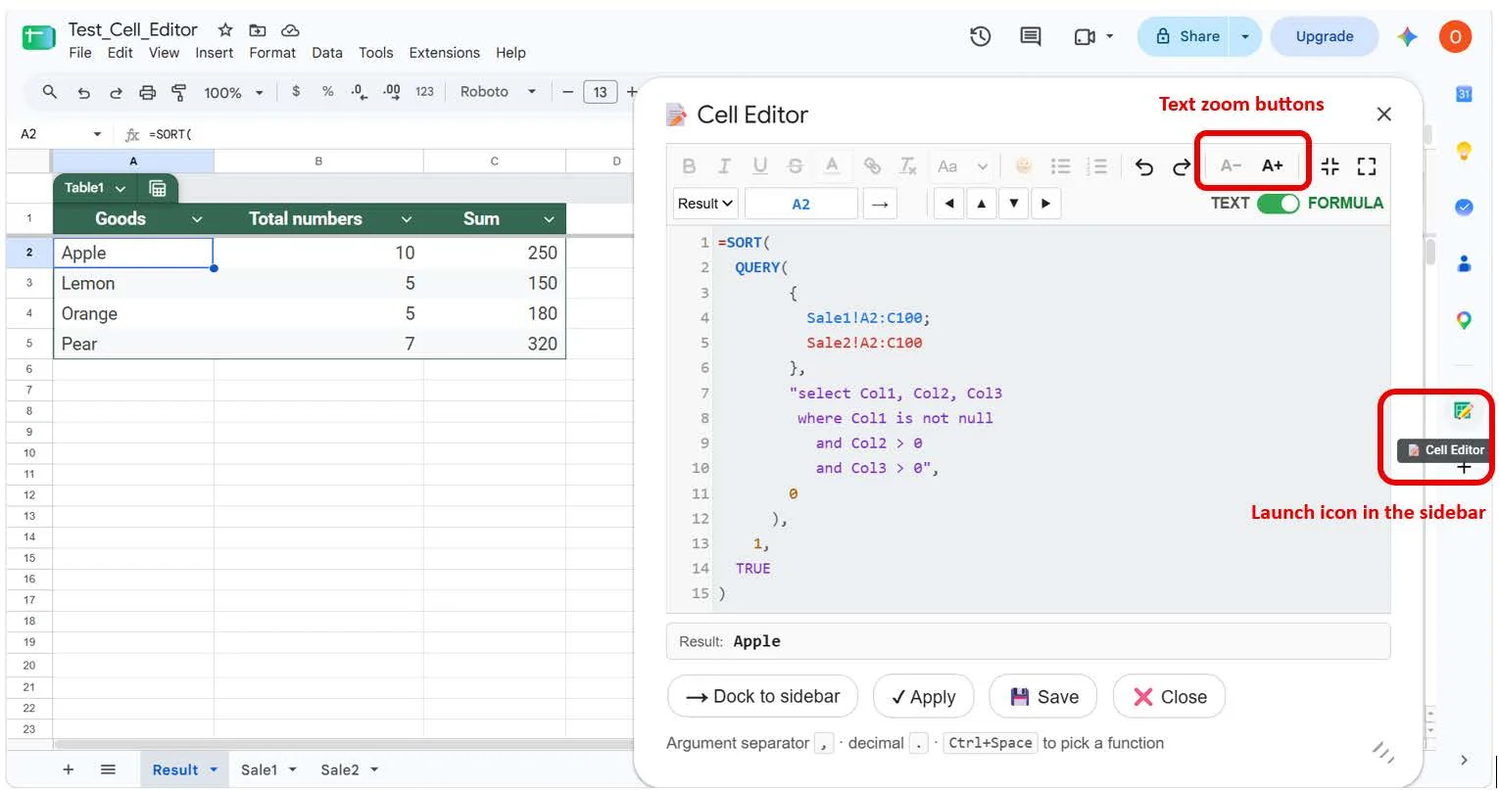
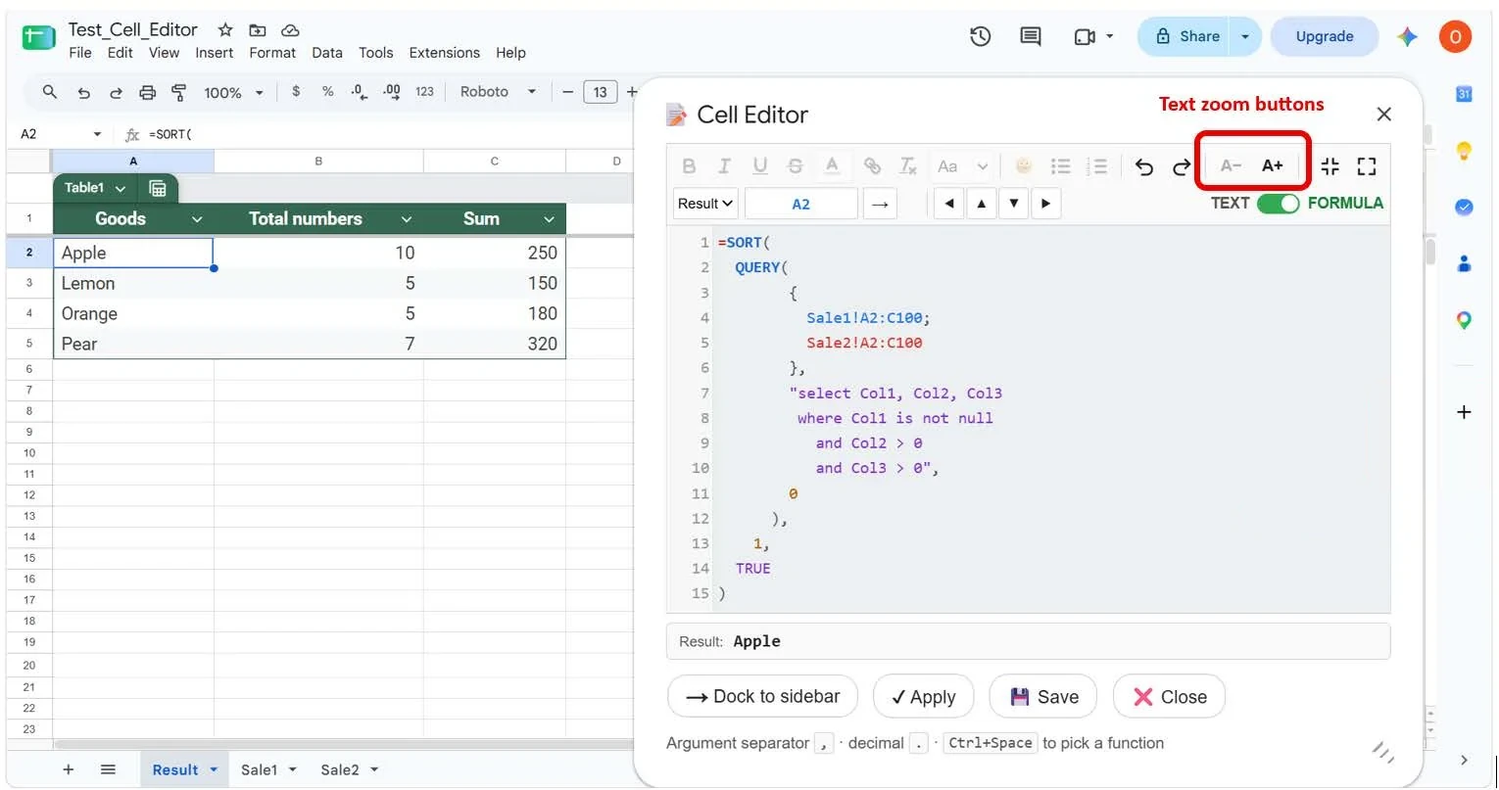
Cell Editor page: accuracy fixes and trademark attribution
- Remove the side-panel launch icon from the formula screenshot and its caption
  (the Google Workspace add-on integration was removed at Google's request).
- FAQ and cell examples: no longer claim Google Sheets can't hold several links in one cell.
- Lists: say the editor adds markers and numbers instead of "real" lists.
- Hints: mention clicking any function inside a nested formula.
- Footer: "Google Sheets(TM) is a trademark of Google LLC."

Changed region(s): [[0.8294, 0.4647, 1.0, 0.6815]]

diff --git a/site/cell-editor/index.html b/site/cell-editor/index.html
@@ -21,7 +21,7 @@
 <link rel="preconnect" href="https://fonts.googleapis.com">
 <link rel="preconnect" href="https://fonts.gstatic.com" crossorigin>
 <link href="https://fonts.googleapis.com/css2?family=Inter+Tight:wght@400;500;600&amp;family=Roboto+Mono:wght@400;500;700&amp;display=swap" rel="stylesheet">
-<link rel="stylesheet" href="/assets/css/site.css?v=646fbfe8e0">
+<link rel="stylesheet" href="/assets/css/site.css?v=7f53d2f9cb">
 </head>
 <body>
 <a class="skip" href="#main">Skip to content</a>
@@ -88,7 +88,7 @@
    "name": "Can I put two different links in one cell?",
    "acceptedAnswer": {
     "@type": "Answer",
-    "text": "Yes, and that is one thing Google Sheets will not do on its own. Select a fragment of text, attach a link to it, then select another fragment and attach a different one. Both survive the save."
+    "text": "Yes. Select a fragment of text, attach a link to it, then select another fragment and attach a different one. Both survive the save."
    }
   },
   {
@@ -132,11 +132,11 @@
       <span></span><span></span><span></span>
     </button>
     <a class="brand" href="/"><img src="/assets/brand/handyaddons-64.png" alt=""><span class="wm"><i>handy</i>addons</span></a>
-    <a class="btn btn-solid btn-sm cta" href="/cell-editor/#install"><span class="long">Install (Coming Soon)</span><span class="short">Install</span></a>
+    <a class="btn btn-solid btn-sm cta" href="https://workspace.google.com/marketplace/app/cell_editor/540002896802"><span class="long">Install</span><span class="short">Install</span></a>
     <!-- The same links as a row, for screens wide enough to hold them. A
          separate element from the drawer on purpose: the drawer is an overlay
          and has to live outside this header, while the row is part of it. -->
-    <nav class="deskmenu" aria-label="Sections"><a href="/">Home</a><a href="/cell-editor/#features">Features</a><a href="/cell-editor/#formulas">Formulas</a><a href="/cell-editor/#functions">Functions</a><a href="/cell-editor/#checks">Checks</a><a href="/cell-editor/#cells">Cells</a><a href="/cell-editor/#screenshots">Screenshots</a><a href="/cell-editor/#faq">FAQ</a><a href="/cell-editor/#languages">Languages</a></nav>
+    <nav class="deskmenu" aria-label="Sections"><a href="/">Home</a><a href="/cell-editor/#features">Features</a><a href="/cell-editor/#formulas">Formulas</a><a href="/cell-editor/#functions">Functions</a><a href="/cell-editor/#cells">Cells</a><a href="/cell-editor/#checks">Checks</a><a href="/cell-editor/#screenshots">Screenshots</a><a href="/cell-editor/#languages">Languages</a><a href="/cell-editor/#faq">FAQ</a></nav>
   </div>
 </header>
 <!-- The drawer and its veil are siblings of the header, never children of it.
@@ -157,11 +157,11 @@
     <a href="/cell-editor/#features">Features</a>
     <a href="/cell-editor/#formulas">Formulas</a>
     <a href="/cell-editor/#functions">Functions</a>
-    <a href="/cell-editor/#checks">Checks</a>
     <a href="/cell-editor/#cells">Cells</a>
+    <a href="/cell-editor/#checks">Checks</a>
     <a href="/cell-editor/#screenshots">Screenshots</a>
-    <a href="/cell-editor/#faq">FAQ</a>
     <a href="/cell-editor/#languages">Languages</a>
+    <a href="/cell-editor/#faq">FAQ</a>
 </nav>
 <main id="main">
 
@@ -172,7 +172,7 @@
       <h1>The formula bar was never big enough.</h1>
       <p class="lede">Cell Editor opens the cell you are editing into a full editor inside Google Sheets. Colored syntax, live function hints, and nine checks that catch a broken formula before it reaches the sheet.</p>
       <div class="hero-actions">
-        <span class="btn-pending">Install (Coming Soon)</span>
+        <a class="btn btn-solid" href="https://workspace.google.com/marketplace/app/cell_editor/540002896802">Install from Google Workspace Marketplace</a>
         <a class="btn btn-ghost" href="#screenshots">See it in the sheet</a>
       </div>
       <p class="free">Free. Google Sheets in a desktop browser.</p>
@@ -210,15 +210,15 @@
   <h2>Everything the formula bar left out</h2>
   <p class="sec-lede">One editor, two modes. Rich text for notes and descriptions, a code editor for formulas — each with its own tools.</p>
   <div class="feat reveal">
-    <div class="cellx"><h3>Sidebar or window</h3><p>A narrow panel that stays beside the sheet, or a wide resizable window for long content. One button switches, and your choice is remembered.</p></div>
-    <div class="cellx"><h3>Colored syntax</h3><p>Functions, references, numbers, strings and brackets each take their own color, and every distinct reference gets its own shade.</p></div>
-    <div class="cellx"><h3>Hints while you type</h3><p>Open a bracket and the function signature appears with the current argument highlighted, described in your spreadsheet's language.</p></div>
-    <div class="cellx"><h3>Pick ranges with the mouse</h3><p>Put the cursor where the address belongs, select cells on the sheet, and the reference lands in the formula — cross-sheet names quoted correctly.</p></div>
-    <div class="cellx"><h3>Move without closing</h3><p>Step to the next cell with the arrow keys or type an address to jump, across sheets. Unsaved changes are flagged before you leave.</p></div>
-    <div class="cellx"><h3>Scale the text</h3><p>Enlarge the editor's font without changing the size of the characters in the cell itself. Built for long sessions and for low vision.</p></div>
-    <div class="cellx"><h3>Rich text mode</h3><p>Bold, italic, underline, strikethrough, color, point sizes, lists, several hyperlinks inside one cell, and an emoji picker with search.</p></div>
-    <div class="cellx"><h3>Your locale decides</h3><p>Argument and decimal separators follow your spreadsheet's own setting, and the pair in force is always shown at the bottom of the window.</p></div>
-    <div class="cellx"><h3>Character counter</h3><p>It appears as content nears the 50 000 character cell limit and turns red past it, blocking the save rather than truncating silently.</p></div>
+    <div class="cellx"><svg class="fico" viewBox="0 0 24 24" aria-hidden="true"><rect x="3" y="5" width="18" height="14" rx="2"/><path d="M15 5v14"/></svg><h3>Sidebar or window</h3><p>A narrow panel that stays beside the sheet, or a wide resizable window for long content. One button switches, and your choice is remembered.</p></div>
+    <div class="cellx"><svg class="fico" viewBox="0 0 24 24" aria-hidden="true"><path d="M9 6 4 12l5 6"/><path d="m15 6 5 6-5 6"/></svg><h3>Colored syntax</h3><p>Functions, references, numbers, strings and brackets each take their own color, and every distinct reference gets its own shade.</p></div>
+    <div class="cellx"><svg class="fico" viewBox="0 0 24 24" aria-hidden="true"><path d="M20 4H4a1 1 0 0 0-1 1v10a1 1 0 0 0 1 1h4v4l4-4h8a1 1 0 0 0 1-1V5a1 1 0 0 0-1-1Z"/></svg><h3>Hints while you type</h3><p>Open a bracket, or click any function inside a nested formula, and the hint for that exact function appears with the current argument highlighted — not at the start of the formula. Described in your spreadsheet's language.</p></div>
+    <div class="cellx"><svg class="fico" viewBox="0 0 24 24" aria-hidden="true"><rect x="3" y="3" width="18" height="18" rx="2" stroke-dasharray="4 3"/><path d="m10 9.5 8.5 3.2-3.5 1.4-1.4 3.5Z"/></svg><h3>Pick ranges with the mouse</h3><p>Put the cursor where the address belongs, select cells on the sheet, and the reference lands in the formula — cross-sheet names quoted correctly.</p></div>
+    <div class="cellx"><svg class="fico" viewBox="0 0 24 24" aria-hidden="true"><path d="M12 4v16M4 12h16"/><path d="m9.5 6.5 2.5-2.5 2.5 2.5M9.5 17.5l2.5 2.5 2.5-2.5M6.5 9.5 4 12l2.5 2.5M17.5 9.5 20 12l-2.5 2.5"/></svg><h3>Move without closing</h3><p>Step to the next cell with the arrow keys or type an address to jump, across sheets. Unsaved changes are flagged before you leave.</p></div>
+    <div class="cellx"><svg class="fico" viewBox="0 0 24 24" aria-hidden="true"><path d="M3 18 8 6l5 12"/><path d="M4.6 14h6.8"/><path d="M16 10h6M19 7v6"/></svg><h3>Scale the text</h3><p>Enlarge the editor's font without changing the size of the characters in the cell itself. Built for long sessions and for low vision.</p></div>
+    <div class="cellx"><svg class="fico" viewBox="0 0 24 24" aria-hidden="true"><path d="M2.5 15 6.2 5l3.7 10"/><path d="M3.8 12h4.8"/><circle cx="15.7" cy="12.2" r="3.2"/><path d="M18.9 9v6"/><path d="M2.5 19.5h17" stroke="#e8710a" stroke-width="2.4"/></svg><h3>Rich text mode</h3><p>Bold, italic, underline, strikethrough, color, point sizes, lists, several hyperlinks inside one cell, and an emoji picker with search.</p></div>
+    <div class="cellx"><svg class="fico" viewBox="0 0 24 24" aria-hidden="true"><circle cx="12" cy="12" r="9"/><path d="M3 12h18"/><path d="M12 3a14 14 0 0 1 0 18 14 14 0 0 1 0-18Z"/></svg><h3>Your locale decides</h3><p>Argument and decimal separators follow your spreadsheet's own setting, and the pair in force is always shown at the bottom of the window.</p></div>
+    <div class="cellx"><svg class="fico" viewBox="0 0 24 24" aria-hidden="true"><path d="M3 16.5a9 9 0 1 1 18 0"/><path d="m12 16.5 4.6-5.6"/><circle cx="12" cy="16.5" r="1.3"/></svg><h3>Character counter</h3><p>It appears as content nears the 50 000 character cell limit and turns red past it, blocking the save rather than truncating silently.</p></div>
   </div>
 </section>
 
@@ -229,7 +229,7 @@
       <div class="shot-frame" style="aspect-ratio:1530/807">
         <img src="/assets/screenshots/formula.webp" width="1530" height="807" loading="lazy" decoding="async" alt="Cell Editor open in a window over a Google Sheet, showing a nested SORT and QUERY formula with colored syntax and line numbers">
       </div>
-      <figcaption>Formula mode in a resizable window, with the text zoom controls and the launcher icon marked</figcaption>
+      <figcaption>Formula mode in a resizable window, with the text zoom controls marked</figcaption>
     </figure>
   <div class="points reveal">
     <div>
@@ -350,7 +350,7 @@
     <div class="cellbox">
       <div class="cellbox-h"><b>D12</b>Handover procedure</div>
       <div class="cellbox-b"><ol><li>Export the monthly report</li><li>Reconcile the totals against the ledger</li><li>Send to the client and copy the account manager</li></ol></div>
-      <p class="cellbox-n">A real numbered list inside one cell — the numbers come from the list, not typed in by hand, so inserting a step renumbers the rest.</p>
+      <p class="cellbox-n">A numbered list inside one cell — Cell Editor puts the numbers in for you, so you never type them by hand.</p>
     </div>
     <div class="cellbox">
       <div class="cellbox-h"><b>A3</b>Definition with a source</div>
@@ -360,7 +360,7 @@
     <div class="cellbox">
       <div class="cellbox-h"><b>C5</b>Product line with two links</div>
       <div class="cellbox-b">Steelcase Leap v2 &mdash; <a href="#cells">spec sheet</a> &middot; <a href="#cells">warranty terms</a></div>
-      <p class="cellbox-n">Google Sheets attaches one link per cell on its own. Cell Editor attaches one per fragment.</p>
+      <p class="cellbox-n">Two links on two different words of the same cell, each added in the editor like in any document.</p>
     </div>
   </div>
 </section>
@@ -402,7 +402,7 @@
     </figure>
     <div>
       <h3>Formatting that survives the save</h3>
-      <p>Bold, italic, underline and strikethrough, text color on individual fragments, and a point size that sets the real size of the characters in the cell. Lists come out as lists.</p>
+      <p>Bold, italic, underline and strikethrough, text color on individual fragments, and a point size that sets the real size of the characters in the cell. Bulleted and numbered lists get their markers and numbers from the editor.</p>
       <ul class="mini">
         <li>Several hyperlinks attached to different fragments of one cell</li>
         <li>Clear formatting resets a fragment back to plain text</li>
@@ -497,7 +497,7 @@
     </details>
     <details>
       <summary>Can I put two different links in one cell?</summary>
-      <div class="ans"><p>Yes, and that is one thing Google Sheets will not do on its own. Select a fragment of text, attach a link to it, then select another fragment and attach a different one. Both survive the save.</p></div>
+      <div class="ans"><p>Yes. Select a fragment of text, attach a link to it, then select another fragment and attach a different one. Both survive the save.</p></div>
     </details>
     <details>
       <summary>Will it change how my formula is stored?</summary>
@@ -536,7 +536,7 @@
   <div class="wrap">
     <h2>Add it to your spreadsheet</h2>
     <p>Installs from the Google Workspace Marketplace and appears under the Extensions menu. Free, with no account to create.</p>
-    <span class="btn-pending">Install (Coming Soon)</span>
+    <a class="btn btn-solid" href="https://workspace.google.com/marketplace/app/cell_editor/540002896802">Install Cell Editor</a>
   </div>
 </div>
 
@@ -561,8 +561,9 @@
     <a href="/support/">Support</a>
     <span class="sp">handyaddons.com</span>
   </div>
+  <p style="font-size:.8rem;opacity:.7;margin:.75rem 0 0">Google Sheets&trade; is a trademark of Google LLC.</p>
 </footer>
 <button type="button" class="totop" id="totop" aria-label="Back to top">&#8593;</button>
-<script src="/assets/js/site.js?v=68306b230d" defer></script>
+<script src="/assets/js/site.js?v=f38a54eefc" defer></script>
 </body>
 </html>

diff --git a/site/cell-editor/privacy/index.html b/site/cell-editor/privacy/index.html
@@ -21,7 +21,7 @@
 <link rel="preconnect" href="https://fonts.googleapis.com">
 <link rel="preconnect" href="https://fonts.gstatic.com" crossorigin>
 <link href="https://fonts.googleapis.com/css2?family=Inter+Tight:wght@400;500;600&amp;family=Roboto+Mono:wght@400;500;700&amp;display=swap" rel="stylesheet">
-<link rel="stylesheet" href="/assets/css/site.css?v=646fbfe8e0">
+<link rel="stylesheet" href="/assets/css/site.css?v=7f53d2f9cb">
 </head>
 <body>
 <a class="skip" href="#main">Skip to content</a>
@@ -31,7 +31,7 @@
       <span></span><span></span><span></span>
     </button>
     <a class="brand" href="/"><img src="/assets/brand/handyaddons-64.png" alt=""><span class="wm"><i>handy</i>addons</span></a>
-    <a class="btn btn-solid btn-sm cta" href="/cell-editor/#install"><span class="long">Install (Coming Soon)</span><span class="short">Install</span></a>
+    <a class="btn btn-solid btn-sm cta" href="https://workspace.google.com/marketplace/app/cell_editor/540002896802"><span class="long">Install</span><span class="short">Install</span></a>
     <!-- The same links as a row, for screens wide enough to hold them. A
          separate element from the drawer on purpose: the drawer is an overlay
          and has to live outside this header, while the row is part of it. -->
@@ -89,27 +89,57 @@
 <h2>6. Analytics, advertising and tracking</h2>
 <p>The add-on contains no analytics, no advertising, no tracking pixels and no cookies. We do not know how often you use it or what you do with it. We receive no usage reports of any kind.</p>
 
-<h2>7. Limited use disclosure</h2>
+<h2>7. Sharing and disclosure of Google user data</h2>
+<p>We do not transfer or disclose your information to third parties for purposes other than the ones described in this policy. In practice there are no such purposes, so there is no transfer at all.</p>
+<p>Google user data reached by Cell Editor is not sold, rented, traded, published, or shared with anyone. There are no third parties involved in running this add-on: no service providers, no sub-processors, no hosting partners, no analytics providers, no advertising networks, no data brokers, and no affiliates. handyaddons operates no server that this data could be sent to.</p>
+<p>This is enforced technically rather than promised. The add-on does not request the <code>script.external_request</code> permission, which is the permission Google requires before any Apps Script code may contact an address on the internet. Without it, the add-on is incapable of transmitting anything anywhere, whatever its code might say.</p>
+<p>The same applies to legal requests. If we were compelled by a court or an authority to hand over your spreadsheet content, we would have nothing to hand over: we hold no copy of it, and no means of obtaining one.</p>
+
+<h2>8. How your data is protected</h2>
+<p>Security procedures are in place to protect the confidentiality of your data. The most important one is structural: your data never leaves Google.</p>
+<ul>
+<li><strong>It stays inside Google's infrastructure.</strong> The add-on runs in Google's Apps Script environment, inside your own Google account. The cell you edit travels between the spreadsheet and the editor panel and back again, and never crosses out of Google's systems.</li>
+<li><strong>It is encrypted in transit.</strong> Every exchange between the editor panel and the add-on takes place over HTTPS within Google's network. This website is served over HTTPS as well.</li>
+<li><strong>It is encrypted at rest.</strong> The few preferences described in section 5 are held by Google's own properties service, which Google encrypts at rest, in the pair &ldquo;this user, this add-on&rdquo;. No other add-on and no other user can read them.</li>
+<li><strong>Access is limited to the file you have open.</strong> The add-on requests <code>spreadsheets.currentonly</code>, the narrowest spreadsheet permission Google offers. It grants access to the one spreadsheet the add-on was opened in, and only while it is open. Every other file in your account is out of reach.</li>
+<li><strong>It cannot be sent anywhere.</strong> As explained in section 7, the add-on has no permission to make network requests.</li>
+<li><strong>Nobody at handyaddons can see it.</strong> We run no server, no database, and no backup of your content. There is no administrative console, no support tool, and no export through which anyone &mdash; including the developer &mdash; could reach what is in your spreadsheet. The access does not exist to be abused or stolen.</li>
+</ul>
+
+<h2>9. Data retention and deletion</h2>
+<p>We retain no Google user data, because we never receive any. The contents of a cell are read when you open the editor, held in memory while you work, and written back when you save. Nothing remains once the panel is closed.</p>
+<p>The four preference values described in section 5 are kept inside your own Google account for as long as the add-on stays installed. They are deleted automatically when you remove the add-on, which you can do at any time from the Extensions menu in Google Sheets. There are no archives, backups, or copies elsewhere, so nothing survives that deletion.</p>
+
+<h2>10. AI and machine learning</h2>
+<p>Google Workspace APIs are not used to develop, improve, or train non-personalized artificial intelligence or machine learning models. Google user data is never used, transferred, or sold for the development, improvement, or training of any AI or ML model, generalized or otherwise.</p>
+<p>Cell Editor contains no AI or machine learning model, is not built on one, and integrates with no AI service of any kind &mdash; not Google's own, not a third party's, not through an aggregator, gateway, or model hub, and not a self-hosted or offline model. It sends no prompt anywhere and receives no generated content. As with everything else in this policy, this is guaranteed by the absence of the <code>script.external_request</code> permission.</p>
+<p>One point deserves a plain explanation, because it is easy to misread from the source code. Cell Editor offers autocomplete and descriptions for the built-in functions of Google Sheets &mdash; around seven hundred of them, from <code>SUM</code> to <code>VLOOKUP</code>. Google has added <code>AI()</code> and <code>GEMINI()</code> to that list of built-in functions, so the add-on carries their names, a one-line description, and a link to Google's documentation, exactly as it does for every other function. That reference text is the only place those words appear. If you write such a formula, it is Google Sheets that evaluates it, under Google's own terms; the add-on merely writes the text of your formula into the cell, as it would with any other formula, and never calls Gemini or any other model itself.</p>
+
+<h2>11. Limited use disclosure</h2>
 <p>handyaddons' use and transfer of information received from Google APIs to any other app will adhere to the <a href="https://developers.google.com/terms/api-services-user-data-policy">Google API Services User Data Policy</a>, including the Limited Use requirements.</p>
 
-<h2>8. This website</h2>
+<h2>12. Third-party resources loaded by the editor</h2>
+<p>The editor panel is built on two open-source libraries, Quill and CodeMirror, which your browser downloads from two public code distribution networks: jsDelivr and cdnjs. These are static script and stylesheet files. No part of your spreadsheet, and no information about you, is sent to either of them.</p>
+<p>What they do see, as any website does when your browser requests a file from it, is your browser's IP address and the name of the file requested. We have no account with either service and receive nothing back from them. Their own policies apply to that request: <a href="https://www.jsdelivr.com/terms/privacy-policy-jsdelivr-net">jsDelivr</a> and <a href="https://www.cloudflare.com/privacypolicy/">Cloudflare</a>, which operates cdnjs.</p>
+
+<h2>13. This website</h2>
 <p>handyaddons.com is a set of static pages served by GitHub Pages. It sets no cookies and runs no analytics. GitHub keeps standard server logs, which include visitors' IP addresses, as described in the <a href="https://docs.github.com/en/site-policy/privacy-policies/github-privacy-statement">GitHub Privacy Statement</a>. The site loads its typefaces from Google Fonts, which means your browser's IP address is visible to Google when a page loads.</p>
 
-<h2>9. Your rights</h2>
+<h2>14. Your rights</h2>
 <p>The GDPR gives you the right to ask what personal data is held about you, to have it corrected or erased, to object to its processing, and to receive a copy of it. The same rights, under different names, exist in the UK, California and a growing number of other places.</p>
 <p>In our case the honest answer to all of them is the same: we hold nothing to show you, correct, or erase. We have no account for you, no record of your use of the add-on, and no copy of anything from your documents. The preferences described in section 5 live inside your own Google account and disappear when you remove the add-on.</p>
 <p>You are welcome to ask anyway, at <a href="mailto:pobi.olex@gmail.com">pobi.olex@gmail.com</a>, and we will answer within thirty days. If the answer does not satisfy you, you may complain to your national data protection authority.</p>
 
-<h2>10. Links to other places</h2>
+<h2>15. Links to other places</h2>
 <p>The add-on links to Google's own reference pages, and this site links to Google's policies and to the Marketplace. Those destinations are not ours, and their own privacy practices apply once you arrive there.</p>
 
-<h2>11. Children</h2>
+<h2>16. Children</h2>
 <p>Cell Editor is a productivity tool and is not directed at children. We do not knowingly collect information from anyone, including children.</p>
 
-<h2>12. Changes to this policy</h2>
+<h2>17. Changes to this policy</h2>
 <p>If the add-on ever requests a new permission or begins handling data differently, this page will be updated before that change reaches you, and the date at the top will change with it.</p>
 
-<h2>13. Contact</h2>
+<h2>18. Contact</h2>
 <p>Questions about this policy, or about anything the add-on does with your data: <a href="mailto:pobi.olex@gmail.com">pobi.olex@gmail.com</a>. We answer in English and Ukrainian.</p>
 
 <p style="margin-top:40px"><a href="/cell-editor/">Back to Cell Editor</a> &middot; <a href="/terms/">Terms of use</a> &middot; <a href="/support/">Support</a></p>
@@ -122,8 +152,9 @@
     <a href="/support/">Support</a>
     <span class="sp">handyaddons.com</span>
   </div>
+  <p style="font-size:.8rem;opacity:.7;margin:.75rem 0 0">Google Sheets&trade; is a trademark of Google LLC.</p>
 </footer>
 <button type="button" class="totop" id="totop" aria-label="Back to top">&#8593;</button>
-<script src="/assets/js/site.js?v=68306b230d" defer></script>
+<script src="/assets/js/site.js?v=f38a54eefc" defer></script>
 </body>
 </html>

diff --git a/site/terms/index.html b/site/terms/index.html
@@ -21,7 +21,7 @@
 <link rel="preconnect" href="https://fonts.googleapis.com">
 <link rel="preconnect" href="https://fonts.gstatic.com" crossorigin>
 <link href="https://fonts.googleapis.com/css2?family=Inter+Tight:wght@400;500;600&amp;family=Roboto+Mono:wght@400;500;700&amp;display=swap" rel="stylesheet">
-<link rel="stylesheet" href="/assets/css/site.css?v=646fbfe8e0">
+<link rel="stylesheet" href="/assets/css/site.css?v=7f53d2f9cb">
 </head>
 <body>
 <a class="skip" href="#main">Skip to content</a>
@@ -31,7 +31,7 @@
       <span></span><span></span><span></span>
     </button>
     <a class="brand" href="/"><img src="/assets/brand/handyaddons-64.png" alt=""><span class="wm"><i>handy</i>addons</span></a>
-    <a class="btn btn-solid btn-sm cta" href="/cell-editor/#install"><span class="long">Install (Coming Soon)</span><span class="short">Install</span></a>
+    <a class="btn btn-solid btn-sm cta" href="https://workspace.google.com/marketplace/app/cell_editor/540002896802"><span class="long">Install</span><span class="short">Install</span></a>
     <!-- The same links as a row, for screens wide enough to hold them. A
          separate element from the drawer on purpose: the drawer is an overlay
          and has to live outside this header, while the row is part of it. -->
@@ -118,8 +118,9 @@
     <a href="/support/">Support</a>
     <span class="sp">handyaddons.com</span>
   </div>
+  <p style="font-size:.8rem;opacity:.7;margin:.75rem 0 0">Google Sheets&trade; is a trademark of Google LLC.</p>
 </footer>
 <button type="button" class="totop" id="totop" aria-label="Back to top">&#8593;</button>
-<script src="/assets/js/site.js?v=68306b230d" defer></script>
+<script src="/assets/js/site.js?v=f38a54eefc" defer></script>
 </body>
 </html>

diff --git a/site/404.html b/site/404.html
@@ -21,7 +21,7 @@
 <link rel="preconnect" href="https://fonts.googleapis.com">
 <link rel="preconnect" href="https://fonts.gstatic.com" crossorigin>
 <link href="https://fonts.googleapis.com/css2?family=Inter+Tight:wght@400;500;600&amp;family=Roboto+Mono:wght@400;500;700&amp;display=swap" rel="stylesheet">
-<link rel="stylesheet" href="/assets/css/site.css?v=646fbfe8e0">
+<link rel="stylesheet" href="/assets/css/site.css?v=7f53d2f9cb">
 </head>
 <body>
 <a class="skip" href="#main">Skip to content</a>
@@ -31,7 +31,7 @@
       <span></span><span></span><span></span>
     </button>
     <a class="brand" href="/"><img src="/assets/brand/handyaddons-64.png" alt=""><span class="wm"><i>handy</i>addons</span></a>
-    <a class="btn btn-solid btn-sm cta" href="/cell-editor/#install"><span class="long">Install (Coming Soon)</span><span class="short">Install</span></a>
+    <a class="btn btn-solid btn-sm cta" href="https://workspace.google.com/marketplace/app/cell_editor/540002896802"><span class="long">Install</span><span class="short">Install</span></a>
     <!-- The same links as a row, for screens wide enough to hold them. A
          separate element from the drawer on purpose: the drawer is an overlay
          and has to live outside this header, while the row is part of it. -->
@@ -69,8 +69,9 @@
     <a href="/support/">Support</a>
     <span class="sp">handyaddons.com</span>
   </div>
+  <p style="font-size:.8rem;opacity:.7;margin:.75rem 0 0">Google Sheets&trade; is a trademark of Google LLC.</p>
 </footer>
 <button type="button" class="totop" id="totop" aria-label="Back to top">&#8593;</button>
-<script src="/assets/js/site.js?v=68306b230d" defer></script>
+<script src="/assets/js/site.js?v=f38a54eefc" defer></script>
 </body>
 </html>

diff --git a/site/support/index.html b/site/support/index.html
@@ -21,7 +21,7 @@
 <link rel="preconnect" href="https://fonts.googleapis.com">
 <link rel="preconnect" href="https://fonts.gstatic.com" crossorigin>
 <link href="https://fonts.googleapis.com/css2?family=Inter+Tight:wght@400;500;600&amp;family=Roboto+Mono:wght@400;500;700&amp;display=swap" rel="stylesheet">
-<link rel="stylesheet" href="/assets/css/site.css?v=646fbfe8e0">
+<link rel="stylesheet" href="/assets/css/site.css?v=7f53d2f9cb">
 </head>
 <body>
 <a class="skip" href="#main">Skip to content</a>
@@ -31,7 +31,7 @@
       <span></span><span></span><span></span>
     </button>
     <a class="brand" href="/"><img src="/assets/brand/handyaddons-64.png" alt=""><span class="wm"><i>handy</i>addons</span></a>
-    <a class="btn btn-solid btn-sm cta" href="/cell-editor/#install"><span class="long">Install (Coming Soon)</span><span class="short">Install</span></a>
+    <a class="btn btn-solid btn-sm cta" href="https://workspace.google.com/marketplace/app/cell_editor/540002896802"><span class="long">Install</span><span class="short">Install</span></a>
     <!-- The same links as a row, for screens wide enough to hold them. A
          separate element from the drawer on purpose: the drawer is an overlay
          and has to live outside this header, while the row is part of it. -->
@@ -99,8 +99,9 @@
     <a href="/support/">Support</a>
     <span class="sp">handyaddons.com</span>
   </div>
+  <p style="font-size:.8rem;opacity:.7;margin:.75rem 0 0">Google Sheets&trade; is a trademark of Google LLC.</p>
 </footer>
 <button type="button" class="totop" id="totop" aria-label="Back to top">&#8593;</button>
-<script src="/assets/js/site.js?v=68306b230d" defer></script>
+<script src="/assets/js/site.js?v=f38a54eefc" defer></script>
 </body>
 </html>

diff --git a/build.py b/build.py
@@ -141,8 +141,8 @@ def cell_examples():
         ("D12", "Handover procedure",
          '<ol><li>Export the monthly report</li><li>Reconcile the totals against the ledger</li>'
          '<li>Send to the client and copy the account manager</li></ol>',
-         "A real numbered list inside one cell — the numbers come from the list, not typed in by hand, "
-         "so inserting a step renumbers the rest."),
+         "A numbered list inside one cell — Cell Editor puts the numbers in for you, "
+         "so you never type them by hand."),
         ("A3", "Definition with a source",
          '<b>Net 30</b> &mdash; payment falls due thirty days after the invoice date. '
          'See the <a href="#cells">payment policy</a>.',
@@ -150,7 +150,7 @@ def cell_examples():
         ("C5", "Product line with two links",
          'Steelcase Leap v2 &mdash; <a href="#cells">spec sheet</a> &middot; '
          '<a href="#cells">warranty terms</a>',
-         "Google Sheets attaches one link per cell on its own. Cell Editor attaches one per fragment."),
+         "Two links on two different words of the same cell, each added in the editor like in any document."),
     ]
     out = []
     for addr, label, body, note in rows:
@@ -315,6 +315,7 @@ FOOTER = f"""<footer class="wrap">
     <a href="/support/">Support</a>
     <span class="sp">handyaddons.com</span>
   </div>
+  <p style="font-size:.8rem;opacity:.7;margin:.75rem 0 0">Google Sheets&trade; is a trademark of Google LLC.</p>
 </footer>
 <button type="button" class="totop" id="totop" aria-label="Back to top">&#8593;</button>
 <script src="{asset("/assets/js/site.js")}" defer></script>
@@ -361,7 +362,7 @@ FAQ = [
     ('Does it work in Firefox?',
      'The sidebar does, fully. The separate window opens in Firefox as a modal dialog, so it cannot be dragged and the sheet behind it cannot be clicked — which means picking ranges with the mouse is unavailable there. Chrome, Edge and Safari have no such restriction.'),
     ('Can I put two different links in one cell?',
-     'Yes, and that is one thing Google Sheets will not do on its own. Select a fragment of text, attach a link to it, then select another fragment and attach a different one. Both survive the save.'),
+     'Yes. Select a fragment of text, attach a link to it, then select another fragment and attach a different one. Both survive the save.'),
     ('Will it change how my formula is stored?',
      'No. Line breaks and indentation you add in the editor are part of the formula text, exactly as they would be if you typed them in the formula bar. Google Sheets ignores them when calculating, so the result is identical — the formula is simply readable afterwards.'),
     ('What happens to my text if it is too long?',
@@ -412,7 +413,7 @@ ICONS = {
 FEATURES = [
     ("panel", "Sidebar or window", "A narrow panel that stays beside the sheet, or a wide resizable window for long content. One button switches, and your choice is remembered."),
     ("code", "Colored syntax", "Functions, references, numbers, strings and brackets each take their own color, and every distinct reference gets its own shade."),
-    ("hint", "Hints while you type", "Open a bracket and the function signature appears with the current argument highlighted, described in your spreadsheet's language."),
+    ("hint", "Hints while you type", "Open a bracket, or click any function inside a nested formula, and the hint for that exact function appears with the current argument highlighted — not at the start of the formula. Described in your spreadsheet's language."),
     ("pick", "Pick ranges with the mouse", "Put the cursor where the address belongs, select cells on the sheet, and the reference lands in the formula — cross-sheet names quoted correctly."),
     ("move", "Move without closing", "Step to the next cell with the arrow keys or type an address to jump, across sheets. Unsaved changes are flagged before you leave."),
     ("zoom", "Scale the text", "Enlarge the editor's font without changing the size of the characters in the cell itself. Built for long sessions and for low vision."),
@@ -526,7 +527,7 @@ def landing():
 <section id="formulas" class="wrap">
   <h2 class="reveal">Formulas you can actually read</h2>
   <p class="sec-lede reveal">A nested QUERY inside a SORT is unreadable on one line. Broken across lines and colored by token, it is just a formula again.</p>
-  {figure("formula.webp", "Cell Editor open in a window over a Google Sheet, showing a nested SORT and QUERY formula with colored syntax and line numbers", "Formula mode in a resizable window, with the text zoom controls and the launcher icon marked", "figure-full reveal")}
+  {figure("formula.webp", "Cell Editor open in a window over a Google Sheet, showing a nested SORT and QUERY formula with colored syntax and line numbers", "Formula mode in a resizable window, with the text zoom controls marked", "figure-full reveal")}
   <div class="points reveal">
     <div>
       <h3>Every reference in its own shade</h3>
@@ -598,7 +599,7 @@ def landing():
     {figure("rich-text.webp", "Cell Editor in text mode showing bold italic and colored text, numbered and bulleted lists, and a hyperlink being added", "Text mode: styles, lists and several links inside one cell", "shot")}
     <div>
       <h3>Formatting that survives the save</h3>
-      <p>Bold, italic, underline and strikethrough, text color on individual fragments, and a point size that sets the real size of the characters in the cell. Lists come out as lists.</p>
+      <p>Bold, italic, underline and strikethrough, text color on individual fragments, and a point size that sets the real size of the characters in the cell. Bulleted and numbered lists get their markers and numbers from the editor.</p>
       <ul class="mini">
         <li>Several hyperlinks attached to different fragments of one cell</li>
         <li>Clear formatting resets a fragment back to plain text</li>
